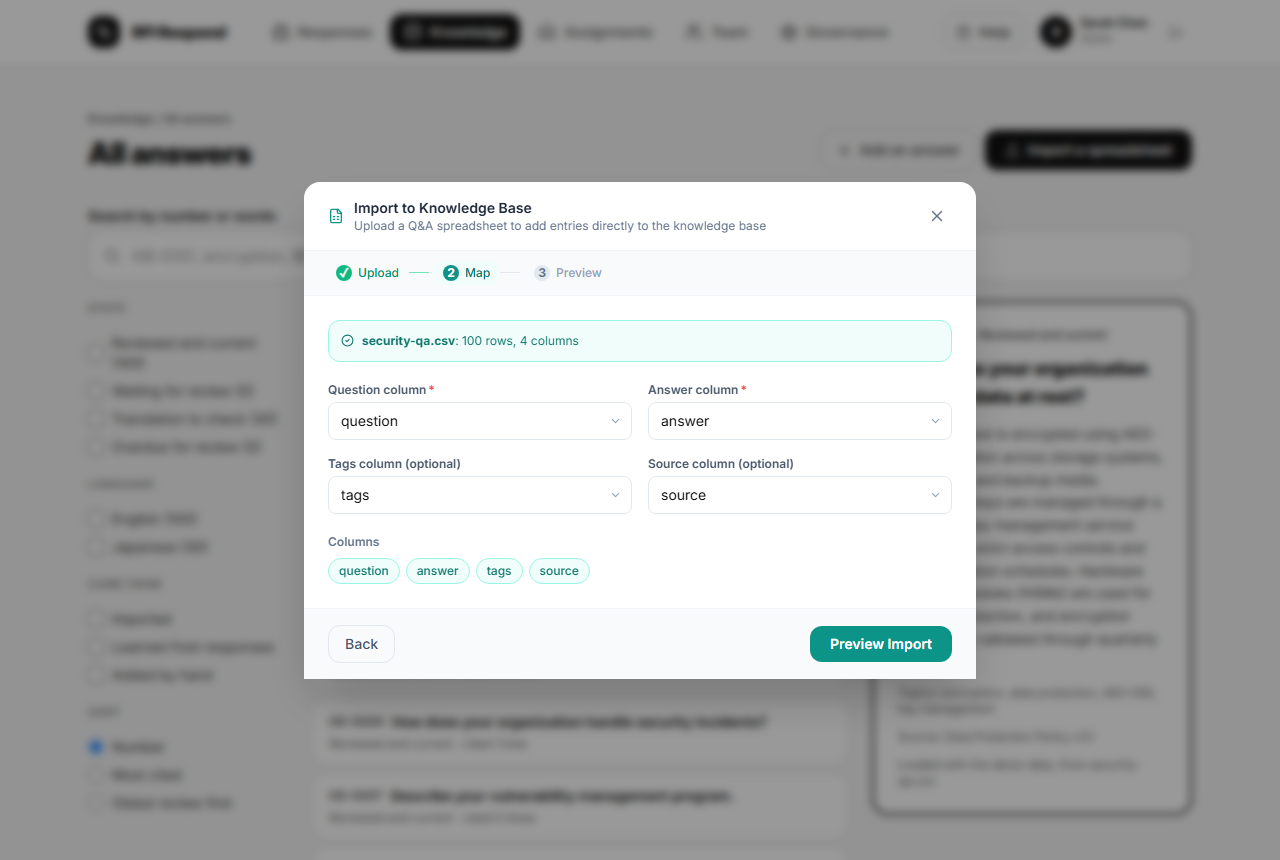
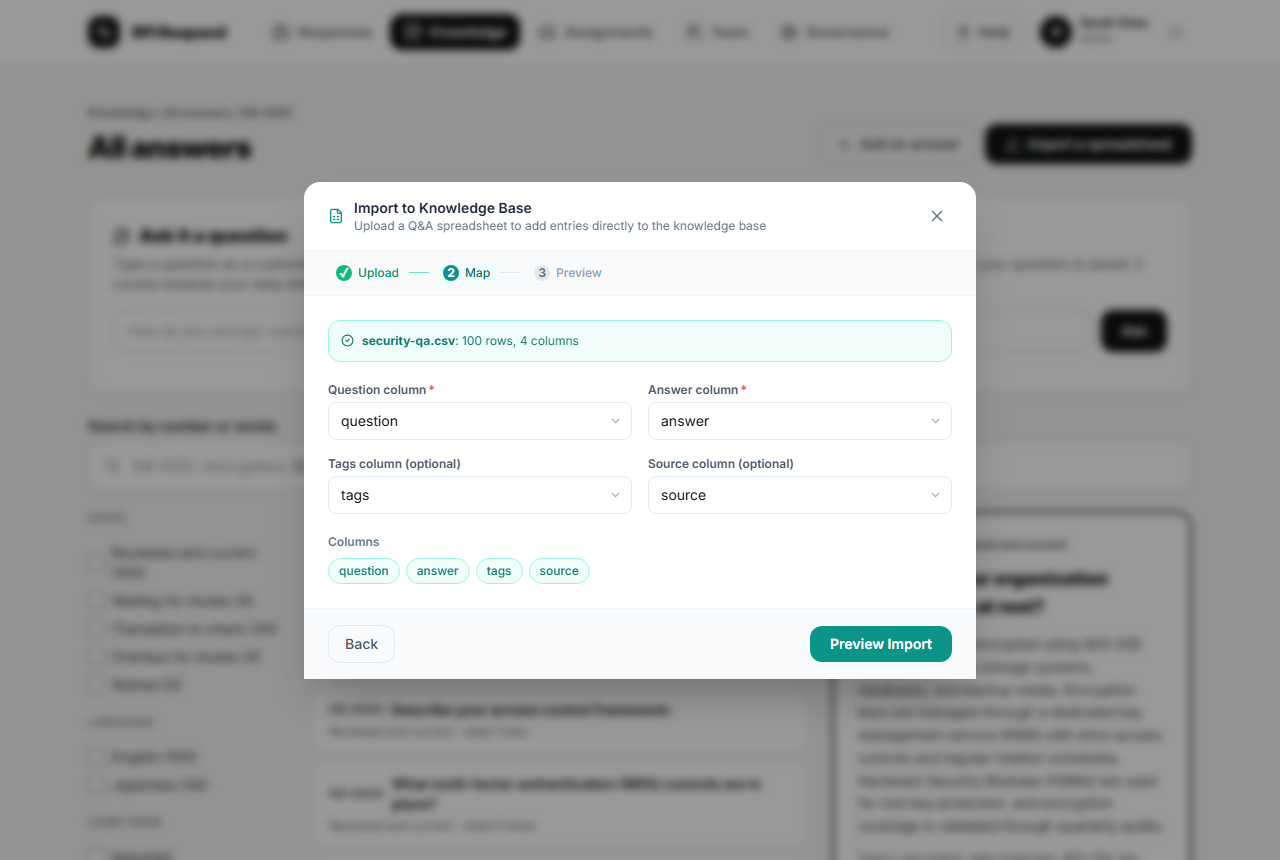
Retaken screenshots with the answer's page and an ask; a plain message when a function cannot be reached
Rory retook the screenshots (every view fits 768 px); the answer's page (19) and an ask on his local stack with real keys (20) are in the README and the guide. The script now scrolls to the answer's page before photographing it, since the ask box above the list pushed it below the fold. When the app cannot reach an Edge Function at all (Rory's check: ask-knowledge not yet deployed), it now says so in plain words instead of supabase-js's own message.

Claude-Session: https://claude.ai/code/session_01WPpy6XYfi9BKBXrsw4t5HH

diff --git a/src/lib/sessions.test.ts b/src/lib/sessions.test.ts
@@ -102,9 +102,15 @@ describe('processInBatches at the usage caps (Sprint 4, S4-1)', () => {
   });
 
   it('falls back to the generic message when the reply has no reason', async () => {
-    const invoke = vi.fn().mockResolvedValueOnce({ data: null, error: new Error('Failed to send a request') });
+    const invoke = vi.fn().mockResolvedValueOnce({ data: null, error: new Error('Something else went wrong') });
     const r = await processInBatches({ functions: { invoke } } as never, 's1', ['a'], () => undefined);
-    expect(r.reasons).toEqual(['Failed to send a request']);
+    expect(r.reasons).toEqual(['Something else went wrong']);
+  });
+
+  it('says plainly when the function cannot be reached at all (Sprint 18)', async () => {
+    const invoke = vi.fn().mockResolvedValueOnce({ data: null, error: new Error('Failed to send a request to the Edge Function') });
+    const r = await processInBatches({ functions: { invoke } } as never, 's1', ['a'], () => undefined);
+    expect(r.reasons[0]).toMatch(/^The service could not be reached/);
   });
 });
 

diff --git a/scripts/screenshots.ts b/scripts/screenshots.ts
@@ -162,6 +162,8 @@ async function main() {
   await page.getByLabel('Search by number or words').fill('KB-0015');
   await page.getByRole('region', { name: 'Answers' }).getByRole('button', { name: /KB-0015/ }).click();
   await page.getByText('A proposed change is waiting').waitFor();
+  // The ask box sits above the list: bring the answer's page to the top, below the sticky header.
+  await page.getByRole('complementary', { name: 'Selected answer' }).evaluate((el) => window.scrollTo({ top: el.getBoundingClientRect().top + window.scrollY - 96 }));
   await shoot(page, '19-answer-page.png', 'an answer and its history');
   // Sprint 18 (S18-4): asking it a question. It needs the Edge Functions running with their keys
   // (npx supabase functions serve); without them the run carries on without this picture.

diff --git a/src/lib/sessions.ts b/src/lib/sessions.ts
@@ -101,6 +101,11 @@ export async function functionErrorMessage(error: unknown): Promise<{ message: s
     }
     return { message: e?.message ?? 'no response', status: ctx.status };
   }
+  // Sprint 18 (found at Rory's check): supabase-js says "Failed to send a request to the Edge
+  // Function" when it cannot reach the function at all (not deployed, offline, or blocked).
+  if (e?.message && /failed to send a request/i.test(e.message)) {
+    return { message: 'The service could not be reached. Check your connection and try again shortly; if it keeps happening, an admin should check the Edge Functions are deployed.', status: null };
+  }
   return { message: e?.message ?? 'no response', status: null };
 }
 

diff --git a/README.md b/README.md
@@ -2,7 +2,7 @@
 
 An internal tool that helps an organisation answer requests for information (RFIs), requests for quotation (RFQs) and security questionnaires. It drafts each answer from the organisation's own knowledge base, says how confident it is and why, holds pricing and legal questions for a person, routes specialist questions to colleagues, and adds what people wrote to the knowledge base when each response is exported.
 
-Product owner: Rory McClelland. Code written by Claude, as an AI coding agent, with every change read and questioned by the product owner. Rebuilt from a prototype in eighteen sprints (Sprints 0 to 17). Synthetic data only; runs locally, with an invite-only hosted demo.
+Product owner: Rory McClelland. Code written by Claude, as an AI coding agent, with every change read and questioned by the product owner. Rebuilt from a prototype in nineteen sprints (Sprints 0 to 18). Synthetic data only; runs locally, with an invite-only hosted demo.
 
 ![A draft answer with its sources, calibrated confidence and the checker's reason](docs/screenshots/3-draft-and-checker.png)
 
@@ -32,6 +32,8 @@ Product owner: Rory McClelland. Code written by Claude, as an AI coding agent, w
 |---|---|
 | ![The knowledge page: what the organisation knows](docs/screenshots/17-knowledge.png) | ![All answers, with one chosen](docs/screenshots/18-knowledge-browse.png) |
 | The knowledge base: what the organisation knows, by topic and state | Every answer, searchable, with where it came from |
+| ![Asking the knowledge base a question](docs/screenshots/20-ask.png) | ![One answer, with a proposed change waiting and where it has been used](docs/screenshots/19-answer-page.png) |
+| Ask it a question: the draft it would give, its confidence and sources | One answer's history and where it has been used |
 | ![Overview of responses in flight](docs/screenshots/1-overview.png) | ![Review, lowest confidence first, with the bulk approval bar](docs/screenshots/2-review.png) |
 | Responses in flight, with owner, due date and progress | Review, lowest confidence first; bulk approval above a threshold |
 | ![A pricing question held for a person](docs/screenshots/4-pricing-held.png) | ![An expert's assignment inbox](docs/screenshots/5-assignments.png) |
@@ -73,6 +75,7 @@ The starting point was a prototype generated with Bolt.new: the first commit in 
 | 15 | Polishing the live demo: search by entry number, admins reset the demo and invite people from the app, the access helpers out of the API, policies checking the user once per query |
 | 16 | The last rough edges (a response shows it is loading, adding an entry is confirmed at once, a steady knowledge-base box) and a UX spike: the app to be reorganised around people's jobs, with the knowledge base as a full place (`docs/ux/`) |
 | 17 | The first slice of the redesign: one vocabulary across the app (a glossary the tests enforce), controls only for those who can use them, and the knowledge base as a full page with an overview and browse, in place of the pop-up |
+| 18 | Each answer's story and asking the knowledge base: an answer's own page (history, where it was used, other languages; approve, mark still correct, edit), retiring and restoring answers and declining proposed changes, Ask it a question through the same pipeline as a response, and entry numbers past KB-9999 |
 
 Each sprint followed the same cycle:
 

diff --git a/docs/guide/admin.md b/docs/guide/admin.md
@@ -36,6 +36,8 @@ The answer you choose opens its own page beside the list (on a phone, in place o
 - **History**, oldest first: how it was added, imported or learned; each review, with the earlier text when it was corrected; changes of topics or source; each confirmation by use (an export that approved it unedited); retirement and restoring; and what it replaced.
 - **Other languages**: the translations made from it, or the entries it was translated from.
 
+![One answer, with a proposed change waiting and where it has been used](../screenshots/19-answer-page.png)
+
 Everyone sees the same page, history included; the rest of the audit log stays with admins. An admin can also, on the page:
 
 - **Approve** an answer waiting for review, or **Mark as still correct** one already reviewed, which moves its next review on by the review interval.
@@ -48,6 +50,8 @@ Everyone sees the same page, history included; the rest of the audit log stays w
 ### Asking it a question
 
 **Ask it a question**, on the knowledge page, takes a question as a customer would write it and shows the answer the knowledge base would draft, before any questionnaire arrives: the draft, its confidence, the checker's verdict and reason, what would happen to it in a response (a pricing question, for instance, is never drafted), and the answers it drew on, each opening its page. It uses exactly the matching, checks and drafting of a response, so it counts towards your daily question limit and the month's budget. Nothing about your question is saved but its cost.
+
+![Asking the knowledge base a question](../screenshots/20-ask.png)
 
 ![Importing a spreadsheet of questions and answers into the knowledge base](../screenshots/12-kb-import.png)
 
